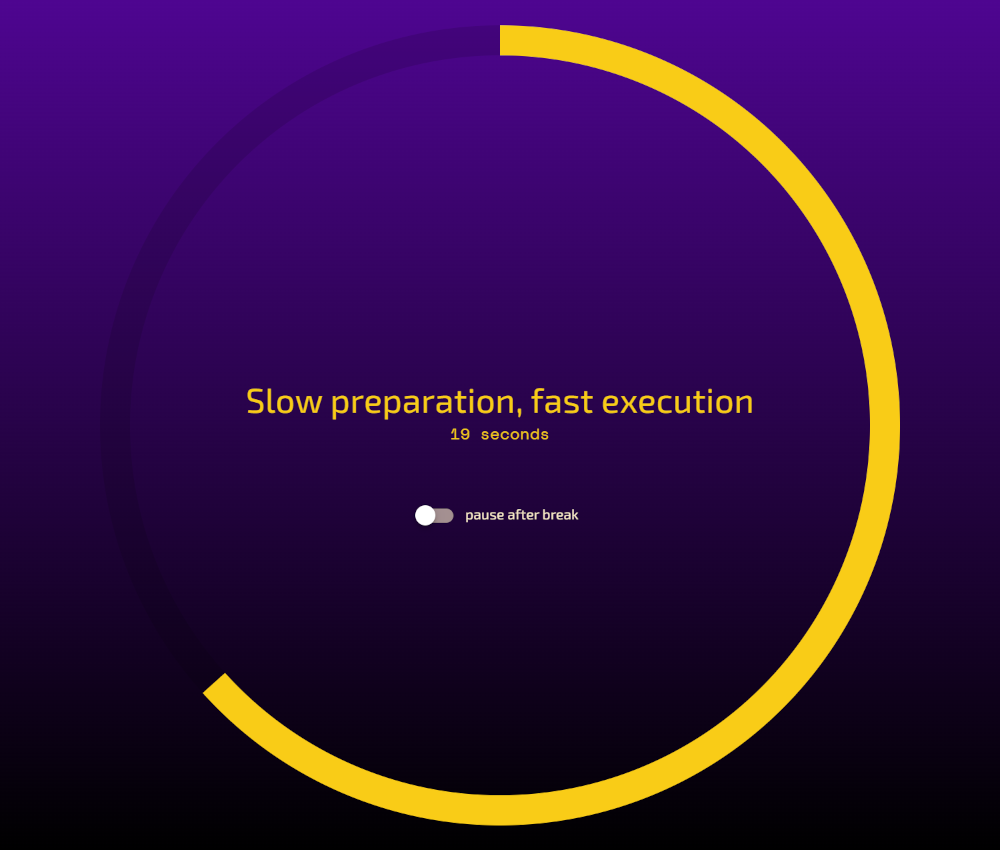
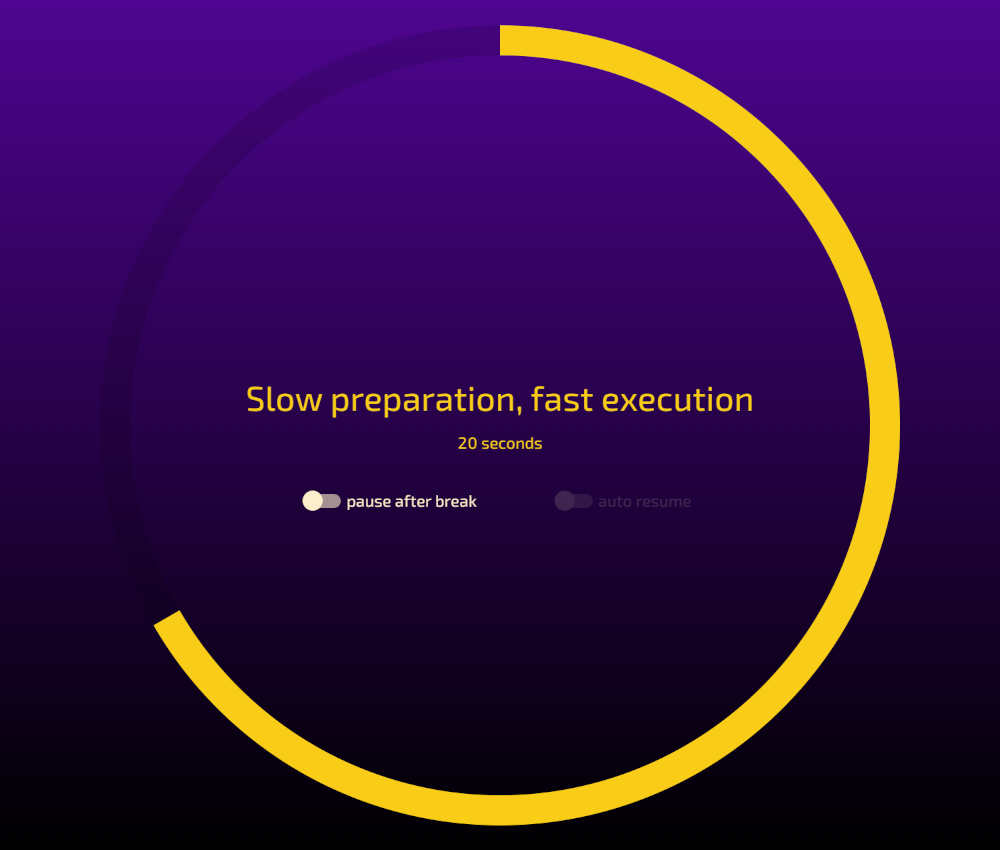
feat: auto_resume when break timer visible

Changed region(s): [[0.248, 0.4588, 0.744, 0.5506], [0.279, 0.5812, 0.589, 0.6424], [0.155, 0.7035, 0.217, 0.8259]]

diff --git a/src/Views/TimerView.vue b/src/Views/TimerView.vue
@@ -1,41 +1,52 @@
 <template>
 	<v-row align='center' justify='center' class='ma-0 pa-0 fill-height'>
+
+
 		<v-col cols='auto' class='ma-0 pa-0' v-if='interval > 0'>
 			<v-progress-circular :model-value='circ_value' color='primary' :size='circle_size' width='30' class=''>
 
-				<v-container fluid class='pa-0'>
+				<v-container class='page-width pa-0 ma-0'>
 
-					<v-row align='center' justify='center' class='mx-1 mb-12 switch_margin'>
-						<v-col cols='11' class='text-primary text-center ma-0 pa-0 px-2 ' :class='text_size'>
+					<v-row align='center' justify='center' class='mt-12'>
+						<v-col cols='11' class='text-primary text-center ma-0 pa-0' :class='text_size'>
 							{{ strategy }}
 						</v-col>
-								
-						<v-col cols='auto' class='text-subtitle-1 monospace-text text-primary ma-0 pa-0'>
+
+						<v-col cols='11' class='text-center text-subtitle-1 mono-num text-primary'>
 							{{ sec_to_minutes(interval) }}
 						</v-col>
 
 					</v-row>
-					<v-row align='center' justify='center' class='ma-0 pa-0'>
-						<v-col cols='auto' class='ma-0 pa-0'>
-							<v-switch
-								v-model='pauseAfterBreak'
-								class='ma-0 pa-0'
-								base-color='offwhite' color='primary'
-								density='compact'
-								hide-details
-								flat
-							/>
-						</v-col>
-						<v-col cols='auto' class='mb-1 ml-4 text-subtitle-2 text-primary ma-0 pa-0' :class='pauseAfterBreak ? "text-primary" : "text-offwhite"'>
-							pause after break
+
+					<v-row align='center' justify='center' class='mt-6 ma-0 pa-0'>
+						<v-col cols='11' class='ma-0 pa-0'>
+
+							<v-row align='center' justify='space-evenly' class='ma-0 pa-0'>
+
+								<v-col cols='auto' class='text-center text-subtitle-2 text-primary ma-0 pa-0'
+									:class='pauseAfterBreak ? "text-primary" : "text-offwhite"'>
+									<v-switch v-model='pauseAfterBreak' base-color='offwhite' color='primary'
+										density='compact' hide-details flat label='pause after break' />
+
+								</v-col>
+
+								<v-col cols='auto' class='text-center text-subtitle-2 text-primary ma-0 pa-0'
+									:class='[{ "disabled-opacity": resume_disabled }, auto_resume ? "text-primary" : "text-offwhite"]'>
+									<v-switch v-model='auto_resume' :disabled='resume_disabled' base-color='offwhite'
+										color='primary' density='compact' hide-details flat label='auto resume' />
+
+								</v-col>
+							</v-row>
+
 						</v-col>
 					</v-row>
+
 				</v-container>
 
 			</v-progress-circular>
-				
+
 		</v-col>
-	
+
 	</v-row>
 </template>
 
@@ -44,6 +55,8 @@ import { computed } from 'vue';
 import { FrontEndRoutes, InvokeMessage } from '@/types';
 import { sec_to_minutes } from '@/vanillaTS/helpers';
 import { invoke } from '@tauri-apps/api/tauri';
+import { snackError } from '@/services/snack';
+const settingStore = settingModule();
 
 const store = intervalModule();
 const interval = computed(() => store.interval);
@@ -56,7 +69,39 @@ const circle_size = computed(() => settingModule().fullscreen ? '1000' : '800');
 
 const text_size = computed(() => settingModule().fullscreen ? 'text-h3' : 'text-h4');
 
+const resume_disabled = computed(() => !(settingStore.auto_pause && pauseAfterBreak.value));
+
 const router = useRouter();
+const auto_resume = computed({
+	get (): boolean {
+		return settingStore.auto_resume;
+	},
+	set (b: boolean) {
+		settingStore.set_auto_resume(b);
+	}
+});
+
+watch(auto_resume, async () => {
+	await send_state();
+});
+
+const current_state = computed(() => settingStore.get_current_state);
+
+// TODO: refactor this, as it's used in the SettingsView as well 
+const saveTimeout = ref(0);
+
+const send_state = async (): Promise<void> => {
+	if (saveTimeout.value) {
+		clearTimeout(saveTimeout.value);
+	}
+	saveTimeout.value = window.setTimeout(async () => {
+		try {
+			await invoke(InvokeMessage.SetSettings, { value: current_state.value });
+		} catch {
+			snackError({ message: `Unable to save settings` });
+		}
+	}, 100);
+};
 
 const pauseAfterBreak = ref(false);
 
@@ -72,10 +117,7 @@ watch(interval, async (i) => {
 </script>
 
 <style>
-
-/* This is to account for the the height of the switch row - it might not be perfect */
-.switch_margin {
-	margin-top: 65px;
+.page-width {
+	width: 60vw;
 }
-
 </style>

diff --git a/src/Views/SettingsView.vue b/src/Views/SettingsView.vue
@@ -65,6 +65,8 @@ const show_update = computed(() => packageinfoModule().github_version.length > 1
 const rotation = ref(0);
 const rotation_interval = ref(0);
 
+
+// TODO this can pause if the timer view appears before it's calculated
 const start_rotation_interval = (): void => {
 	rotation_interval.value = window.setInterval(() => {
 		rotation.value += 20;
@@ -136,7 +138,7 @@ const send_state = async (): Promise<void> => {
 };
 
 
-watch(current_state, async (_i) => {
+watch(current_state, async () => {
 	await send_state();
 });
 
